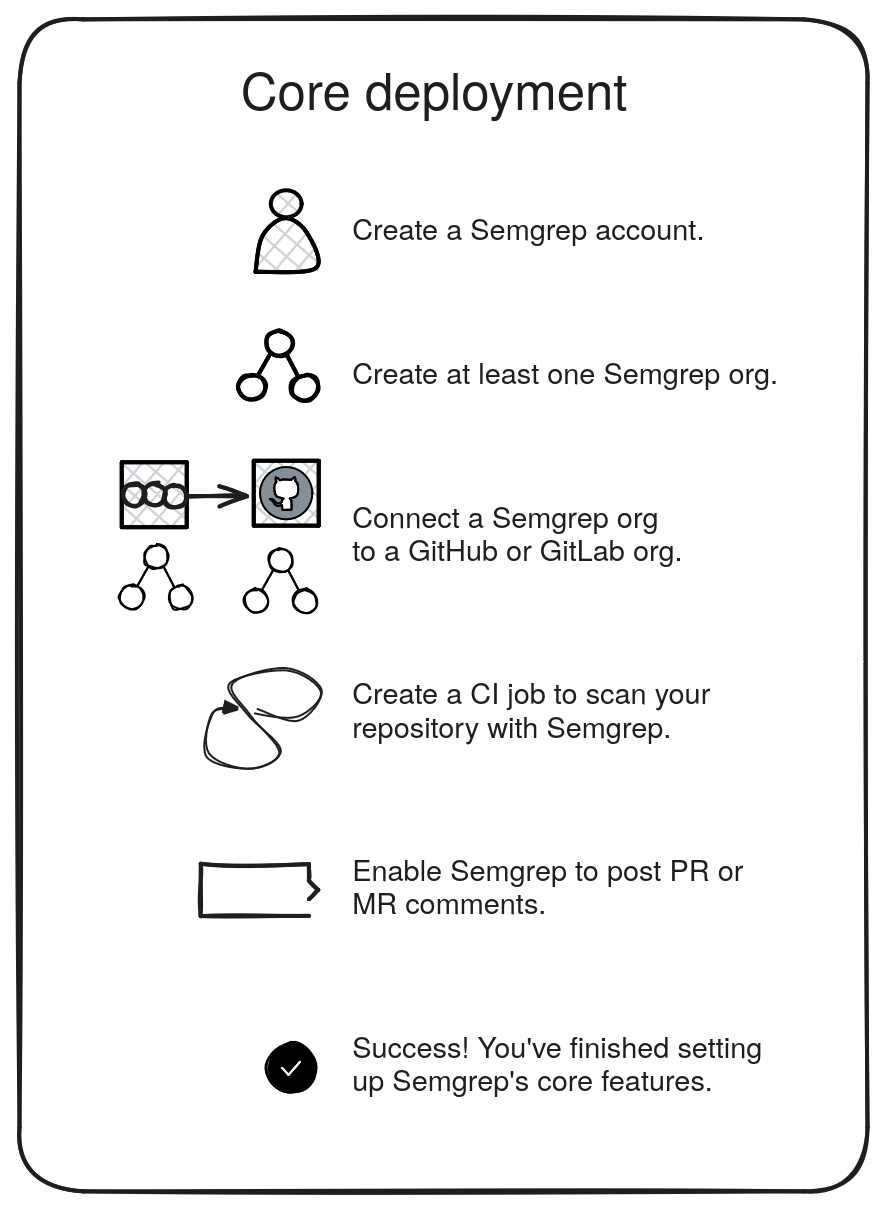
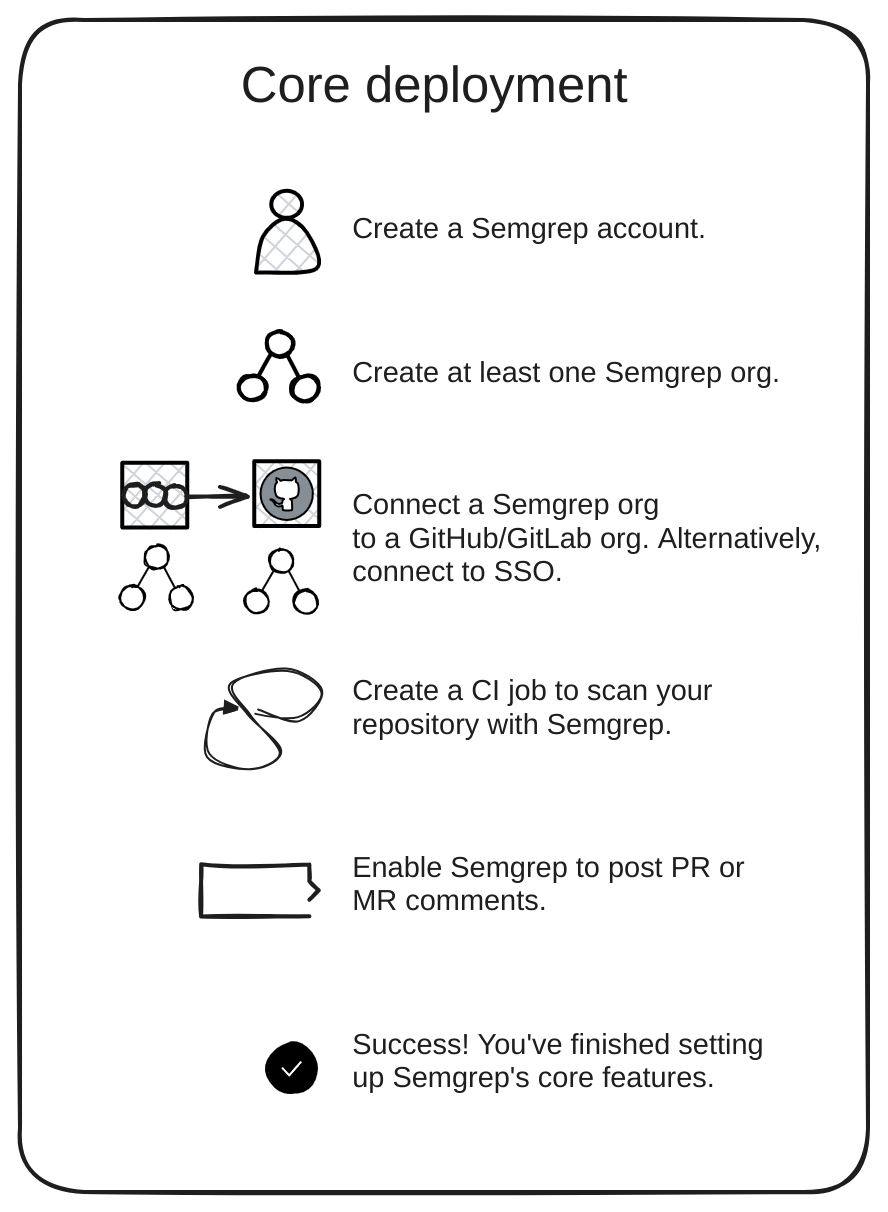
move docs relevant to deployment into dedicated folder

diff --git a/sidebars.js b/sidebars.js
@@ -57,7 +57,7 @@ module.exports = {
                 'deployment/create-account-and-orgs',
                 'deployment/connect-scm',
                 /* 'semgrep-cloud-platform/scm', superseded by connect-scm */
-                'semgrep-cloud-platform/sso',
+                'deployment/sso',
                 'semgrep-cloud-platform/getting-started',
                 {
                     type: 'category',
@@ -76,7 +76,7 @@ module.exports = {
             collapsible: true,
             label: 'Large and enterprise teams',
             items: [
-                'semgrep-cloud-platform/user-management',
+                'deployment/user-management',
                 'semgrep-cloud-platform/tags'
             ]
         },

diff --git a/docs/deployment/create-account-and-orgs.md b/docs/deployment/create-account-and-orgs.md
@@ -17,9 +17,9 @@ import TabItem from '@theme/TabItem';
 
 # Create a Semgrep account and set up organizations
 
-You can create a Semgrep user account by signing in to Semgrep Cloud Platform (SCP) through GitHub or GitLab. After this **initial** sign-in, you can:
+You can create a Semgrep user account by signing in to Semgrep Cloud Platform (SCP) through GitHub or GitLab. After this **initial sign-in**, you can:
 
-* Add the rest of your organization (org) to Semgrep through SSO. 
+* Add the rest of your organization (org) members to Semgrep. 
 * Configure Semgrep to scan in other SCMs, such as Bitbucket.
 
 :::tip Using SSO for your initial sign-in 
@@ -61,11 +61,24 @@ The following steps walk you through creating a **user account** and your first 
 
 </Tabs>
 
+You have successfully created an account and your first organization.
+
 ## Set up organizations
 
 Organizations (orgs) in Semgrep enable users to share access to, and management of, Semgrep resources such as findings and reports.
 
 Semgrep organizations can be **connected** to equivalent GitHub, GitLab, and SSO organizations, which enables users from those organizations to easily join your Semgrep deployment through their existing credentials.
+
+### Next steps for GitHub and GitLab users
+
+- Connect your Semgrep org to your GitHub or GitLab SCM. Refer to [<i class="fa-regular fa-file-lines"></i> Connect a source code manager](/deployment/connect-an-org) for steps.
+
+### Next steps for Bitbucket and Azure Repos users
+
+- To add members to your Semgrep organization, set up [<i class="fa-regular fa-file-lines"></i> SSO authentication](/deployment/sso).
+- You can also opt to scan a repository instead.
+
+## Appendices 
 
 ### How Semgrep organizations work
 
@@ -75,7 +88,7 @@ Organizations can be as small as a single user in a department, or encompass who
 
 By default, orgs do not manage any authentication or repositories. You add resources and users to an org by connecting to an SCM or SSO, or setting up a Semgrep scan.
 
-Once you have connected to your SSO or SCM, any team member from your GitHub, Gitlab, or SSO organization can sign in to Semgrep. This includes developers not part of your security team. To control which resources they are able to see or what policies they can change, configure their **role** through user access control features. [tk link]
+Once you have connected to your SSO or SCM, any team member from your GitHub, Gitlab, or SSO organization can sign in to Semgrep. This includes developers not part of your security team. To control which resources they are able to see or what policies they can change, configure their **role** through [<i class="fa-regular fa-file-lines"></i> user access control features](/deployment/user-management).
 
 ### Create additional orgs
 
@@ -85,19 +98,6 @@ After you create your first org, you can create multiple orgs to group related r
 2. Click **Add org**.
 3. Click **Create an organization**.
 4. In the popup, provide an **Organization display name**.
-
-### Next steps for GitHub and GitLab users
-- GitHub and GitLab users can choose to use their SCM for both user and repository management. Refer to tk link
-- Alternatively, if you also have an SSO provider, you can opt to use SSO to manage user authentication instead.Refer to tk link
-
-### Next steps for Bitbucket and Azure Repos users
-
-- To quickly add members to your Semgrep organization, connect to **SSO**. tk link
-- If you don't use SSO, you can still scan your Bitbucket and Azure Repos repositories without connecting to any SCM. If you  the previous step,tk , you can skip the rest of this guide.
-    - This means you are not able to share resources or manage findings with other security engineers or fellow team members.
-
- 
-## Appendices
 
 ### Organization setup examples
 
@@ -162,10 +162,10 @@ To join an existing org through your SSO provider:
 1. Sign in to [<i class="fas fa-external-link fa-xs"></i> Semgrep Cloud Platform](https://semgrep.dev/login) with the account credentials specified by your admin.
 2. You are automatically signed in to all organizations that your admin has set up for you.
 
+</TabItem>
+
+</Tabs>
 ### Delete an existing org
 
 Reach out to [<i class="fa-regular fa-envelope"></i> support@semgrep.com](mailto:support@semgrep.com) to delete an organization.
 
-</TabItem>
-
-</Tabs>

diff --git a/docs/deployment/core-deployment.md b/docs/deployment/core-deployment.md
@@ -94,13 +94,13 @@ Semgrep supports many different technology stacks. Refer to the following table 
 
 At the minimum, your deployment of Semgrep consists of the following steps:
 
-1. Creating a Semgrep account. Each user of Semgrep has one account.
-1. Setting up organizations (orgs). Each Semgrep account can have many orgs. Orgs are logical groupings of related repositories and users.
-1. Setting up membership:
-    a. For GitHub or GitLab users, you can connect your Semgrep org to the orgs in your source code manager (SCM). This means that any member of an org in your SCM can sign in to your Semgrep deployment.
-    b. You can also use SSO to manage user authentication.
-1. Adding Semgrep into your CI workflows. This step ensures that your Semgrep deployment is up and running and that you receive **findings** of security issues in Semgrep Cloud Platform.
-1. Enabling Semgrep to post PR or MR comments.
+1. **Creating a Semgrep account**. Each user of Semgrep has one account.
+1. **Setting up organizations (orgs)**. Each Semgrep account can have many orgs. Orgs are logical groupings of related repositories and users.
+1. **Setting up membership**:
+    - For GitHub or GitLab users, you can connect your Semgrep org to the orgs in your source code manager (SCM). This means that any member of an org in your SCM can sign in to your Semgrep deployment.
+    - You can also use SSO to manage user authentication.
+1. **Adding Semgrep into your CI workflows**. This step ensures that your Semgrep deployment is up and running and that you receive **findings** of security issues in Semgrep Cloud Platform.
+1. **Enabling Semgrep to post PR or MR comments**.
 
 ![Core deployment steps](/img/core-deployment.png#sm-width-noborder)
 

diff --git a/docs/deployment/connect-scm.md b/docs/deployment/connect-scm.md
@@ -11,7 +11,10 @@ tags:
 
 # Connect a source code manager
 
-Linking a source code manager (SCM) allows the Semgrep org's membership to be managed by GitHub or GitLab, among other benefits. After connecting your Semgrep org to GitHub or GitLab, members from GitHub or GitLab are able to join the Semgrep organization you created and connected.
+Linking a source code manager (SCM) provides the following benefits:
+
+- Allows the Semgrep org membership to be managed by GitHub or GitLab.
+- Provides Semgrep access to post PR or MR comments.
 
 You can only connect your Semgrep organization to the source code manager that you originally logged in with. If your organization uses both GitHub and GitLab to manage source code, log in with the source code manager that you would prefer to use to manage Semgrep org membership. You can still scan repositories from other sources.
 
@@ -79,3 +82,7 @@ Integrate Semgrep into these custom source code management (SCM) tools by follow
         3. The CI job starts automatically to establish a connection with Semgrep Cloud Platform. Alternatively, if it does not start automatically, start the job from the GitLab CI/CD interface. Upon establishing a connection, your repository appears in **Semgrep Cloud Platform > [Projects](https://semgrep.dev/orgs/-/projects)** page.
        4. Repeat all steps under step (iv) to add more repositories into Semgrep Cloud Platform.
 
+## Next steps
+
+- If you want to set up SSO to manage your users, see [<i class="fa-regular fa-file-lines"></i> SSO authentication](/deployment/sso).
+- Otherwise, you are ready to start your first remote scan.
